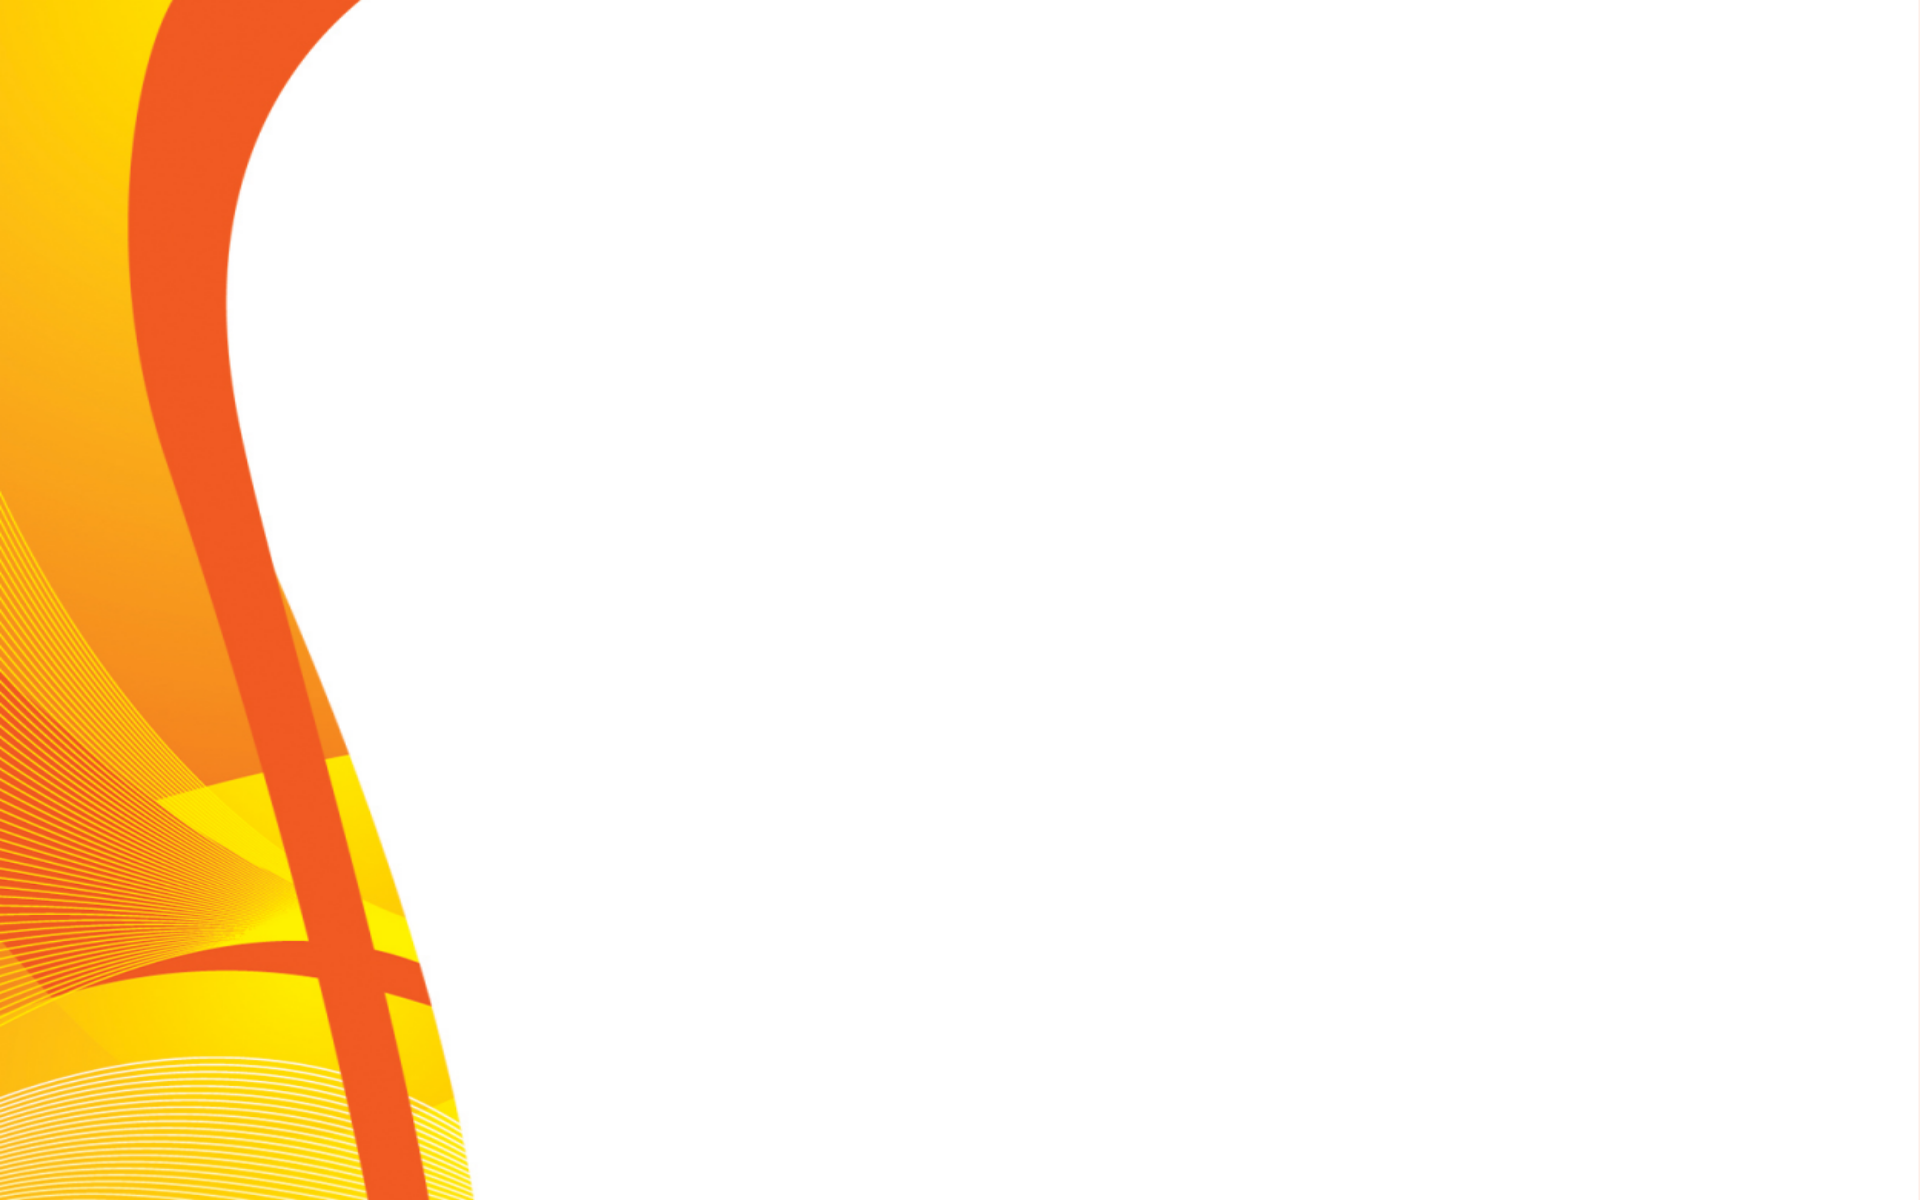
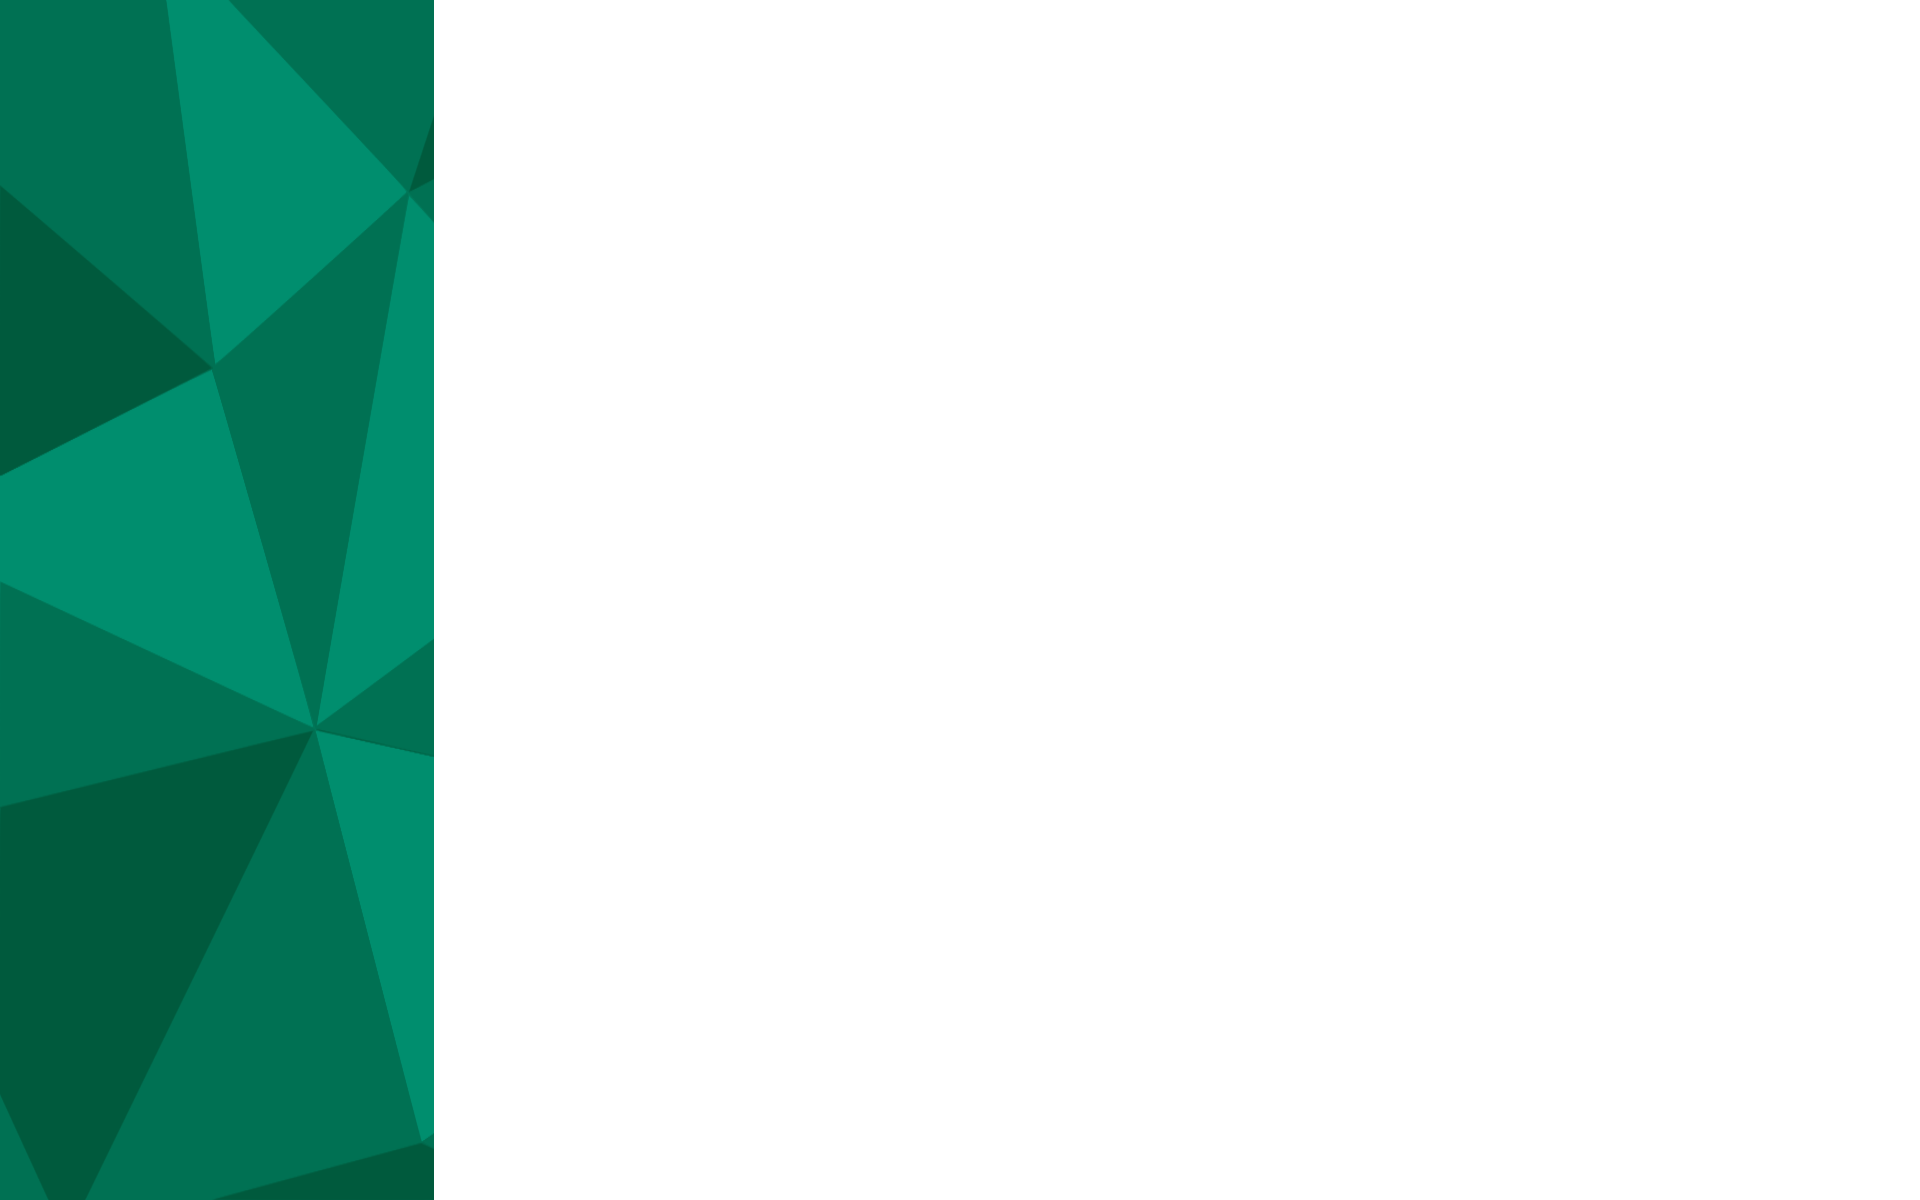
first commit

Changed region(s): [[0.0, 0.0, 0.25, 1.0]]

diff --git a/presentations/C++/Pointers/index.html b/presentations/C++/Pointers/index.html
@@ -1,0 +1,175 @@
+<!doctype html>
+<html>
+
+<head>
+    <meta charset="utf-8">
+    <meta name="viewport" content="width=device-width, initial-scale=1.0, maximum-scale=1.0, user-scalable=no">
+    <meta name="apple-mobile-web-app-capable" content="yes">
+    <title>Presentation</title>
+    <meta name="description" content="tsalex.tk / IT textbook / lesson 1">
+    <meta name="author" content="Alex Tsvetanov">
+    <!--
+		<link href="/presentations/reveal.js/css/impress-demo.css" rel="stylesheet">
+-->
+    <link rel="apple-touch-icon" href="/apple-touch-icon.png">
+    <link rel="shortcut icon" href="/favicon.png">
+    <link rel="stylesheet" href="/presentations/reveal.js/css/reveal.css">
+    <link rel="stylesheet" href="/presentations/reveal.js/css/theme/black.css">
+    <!-- Theme used for syntax highlighting of code -->
+    <link rel="stylesheet" href="/presentations/reveal.js/lib/css/zenburn.css">
+    <!-- Printing and PDF exports -->
+    <script>
+        var link = document.createElement('link');
+        link.rel = 'stylesheet';
+        link.type = 'text/css';
+        link.href = window.location.search.match(/print-pdf/gi) ? '/presentations/reveal.js/css/print/pdf.css' : '/presentations/reveal.js/css/print/paper.css';
+        document.getElementsByTagName('head')[0].appendChild(link);
+    </script>
+    <link href="/presentations/reveal.js/css/template.css" rel="stylesheet" /> </head>
+
+<body>
+    <div class="reveal">
+        <div class="slides">
+            <section>
+                <div class="head">
+                    <div class="logo"></div>
+                    <div class="title">Pointers in C++</div>
+                </div>
+                <div class="body">
+                    <center><img style="height:600px;" src="./pointers.png"></center>
+                </div>
+                <div class="foot">
+                    <div class="bottom">
+                        <div class="author">Alex Tsvetanov</div>
+                        <div class="organization">Tech Education ++</div>
+                        <div class="webpages"><a href="https://techedu.cf">https://techedu.cf</a></div>
+                    </div>
+                    <div class="number"> </div>
+                    <div class="follow"> </div>
+                </div>
+                <aside class="notes"> </aside>
+            </section>
+            <section>
+                <div class="head">
+                    <div class="logo"></div>
+                    <div class="title">Table of Content</div>
+                </div>
+                <div class="body">
+                    <ul>
+                        <li>What are pointers?</li>
+                        <li>How to work with them?</li>
+                        <li>Examples</li>
+                        <li>Live Demo</li>
+                    </ul>
+                </div>
+                <br>
+                <br>
+                <div class="foot">
+                    <div class="number"> </div>
+                    <div class="follow"> </div>
+                </div>
+            </section>
+            <section>
+                <div class="head">
+                    <div class="logo"></div>
+                    <div class="title">What are pointers?</div>
+                </div>
+                <div class="body">
+					Pointer is address, address of variable in the memory.
+					<img src="2.png">
+                </div>
+                <br>
+                <br>
+                <div class="foot">
+                    <div class="number"> </div>
+                    <div class="follow"> </div>
+                </div>
+            </section>
+            <section>
+                <div class="head">
+					<div class="logo"></div>
+                    <div class="title">How to work with them?</div>
+                </div>
+                <div class="body">
+					<div data-markdown>
+						```cpp
+							int a = 5;
+							int *ptr = &a;
+						```
+					</div>
+					<img src="3.png" height="660px">
+					<div data-markdown>
+						```cpp
+							int f = 5;
+							int *ptr = &f;
+							cout &lt;&lt; f &lt;&lt; *ptr &lt;&lt; "\n"; // values 
+							cout &lt;&lt; &f &lt;&lt; ptr &lt;&lt; "\n"; // addresses
+						```
+					</div>
+					<code>
+					</code>
+                </div>
+                <br>
+                <br>
+                <div class="foot">
+                    <div class="number"> </div>
+                    <div class="follow"> </div>
+                </div>
+            </section>
+            <section>
+                <div class="head">
+					<div class="logo"></div>
+                    <div class="title">Live demo</div>
+                </div>
+                <div class="body">
+					<strong>Task:</strong>
+					<p> Implement linked list with pointers </p>
+					<img src="binary tree.png" height="300px">
+					<img src="linked list.png" height="300px">
+				</div>
+                <br>
+                <br>
+                <div class="foot">
+                    <div class="number"> </div>
+                    <div class="follow"> </div>
+                </div>
+            </section>
+        </div>
+    </div>
+    <script src="/presentations/reveal.js/lib/js/head.min.js"></script>
+    <script src="/presentations/reveal.js/js/reveal.js"></script>
+    <script>
+        // More info https://github.com/hakimel/reveal.js#configuration
+        Reveal.initialize({
+            history: true
+            , // More info https://github.com/hakimel/reveal.js#dependencies
+            dependencies: [
+
+				{ src: '/presentations/reveal.js/plugin/zoom-js/zoom.js', async: true },
+                {
+                    src: '/presentations/reveal.js/plugin/markdown/marked.js'
+                }
+                , {
+                    src: '/presentations/reveal.js/plugin/markdown/markdown.js'
+                }
+                , {
+                    src: '/presentations/reveal.js/plugin/notes/notes.js'
+                    , async: true
+                }
+                , {
+                    src: '/presentations/reveal.js/plugin/highlight/highlight.js'
+                    , async: true
+                    , callback: function () {
+                        hljs.initHighlightingOnLoad();
+                    }
+                }
+				]
+        });
+        Reveal.configure({
+            backgroundTransition: 'none'
+        })
+    </script>
+    <script src="/presentations/reveal.js/init.js"></script>
+</body>
+
+</html>

diff --git a/presentations/reveal.js/init.js b/presentations/reveal.js/init.js
@@ -2,12 +2,12 @@ var logos = document.getElementsByClassName ('logo');
 console.log (logos.length);
 for (var i = 0 ; i < logos.length ; i ++)
 {
-	logos [i].innerHTML = '<img width="150px" src="/img/logo2.png" />';
+	logos [i].innerHTML = '<img width="150px" src="../../img/acdemy4_logo.png" />';
 }
 var follows = document.getElementsByClassName ('follow');
 for (var i = 0 ; i < follows.length ; i ++)
 {
-	follows [i].innerHTML = '<center> Follow us<br> <a href="https://chat.techedu.cf" alt="Global chat"><img src="../../img/alex_chat.png" /></a> <a href="https://www.facebook.com/TechEducationGroup/" alt="Facebook"><img src="../../img/facebook.png" /></a> <a href="https://github.com/TechEducationPlusPlus" alt="GitHub"><img src="../../img/github.png" /></a> </center>';
+	follows [i].innerHTML = '<center> Follow us<br> <a href="https://chat.techedu.cf" alt="Global chat"><img src="../../img/acdemy4_logo.png" /></a> <a href="https://www.facebook.com/TechEducationGroup/" alt="Facebook"><img src="../../img/facebook.png" /></a> <a href="https://github.com/TechEducationPlusPlus" alt="GitHub"><img src="../../img/github.png" /></a> </center>';
 }
 var numbers = document.getElementsByClassName ('number');
 for (var i = 0 ; i < numbers.length ; i ++)

diff --git a/presentations/reveal.js/css/template.css b/presentations/reveal.js/css/template.css
@@ -1,6 +1,6 @@
 body
 {
-	background: #FBAE16;
+	background: #005A3D;
 }
 
 section
@@ -95,7 +95,7 @@ section
 
 .foot .number
 {
-	color: #5F021F;
+	color: white;;
 	position: fixed;
 	bottom: 45px;
 	left: 1%;
@@ -106,24 +106,24 @@ section
 
 .bottom .author
 {
-	color: #5F021F;/*#00a800;*/
+	color: white;
 	text-shadow: 1px 1px #5F021F;
 }
 
 .bottom .organization
 {
-	color: #5F021F;
+	color: white;
 	text-shadow: 1px 1px #5F021F;
 }
 
 .bottom .webpages
 {
-	color: #5F021F;
+	color: white;
 }
 
 a:link
 {
-	color: #5F021F;
+	color: white;
 	border: 0px;
 	text-shadow: 1px 1px #5F021F;
 	background-color: rgba(0,0,0,0);
@@ -131,21 +131,21 @@ a:link
 
 a:visited 
 {
-	color: #5F021F;
+	color: white;
 	background-color: rgba(0,0,0,0);
 	text-shadow: 0px 0px #5F021F;
 }
 
 a:hover 
 {
-	color: #5F021F;
+	color: white;
 	background-color: rgba(0,0,0,0);
 	text-shadow: 1px 1px #5F021F;
 }
 
 a:active
 {
-	color: #5F021F;
+	color: white;
 	background-color: rgba(0,0,0,0);
 	text-shadow: 1px 1px #5F021F;
 }

diff --git a/presentations/C++/Pointers/demo/linked_list.cpp b/presentations/C++/Pointers/demo/linked_list.cpp
@@ -1,0 +1,42 @@
+#include <iostream>
+
+using namespace std;
+
+struct linked_list
+{
+	int value;
+	linked_list* prev;
+	linked_list* next;
+
+	linked_list (int val = 0)
+	{
+		value = val;
+		prev = nullptr;
+		next = nullptr;
+	}
+
+	void add_after (int a)
+	{
+		linked_list* new_node = new linked_list (a);
+		new_node->next = this->next;
+		new_node->prev = this;
+		this->next = new_node;
+	}
+};
+
+int main ()
+{
+	int a = 10;
+	int* ptr = &a;
+	int* new_int = new int;
+
+	cout << a << " " << *ptr << "\n";
+	cout << &a << " " << ptr << "\n";
+	cout << new_int << "\n";
+	delete new_int;
+
+
+	linked_list b = linked_list (12);
+	b.add_after (11);
+	cout << b.value << " " << b.next->value << "\n";
+}
